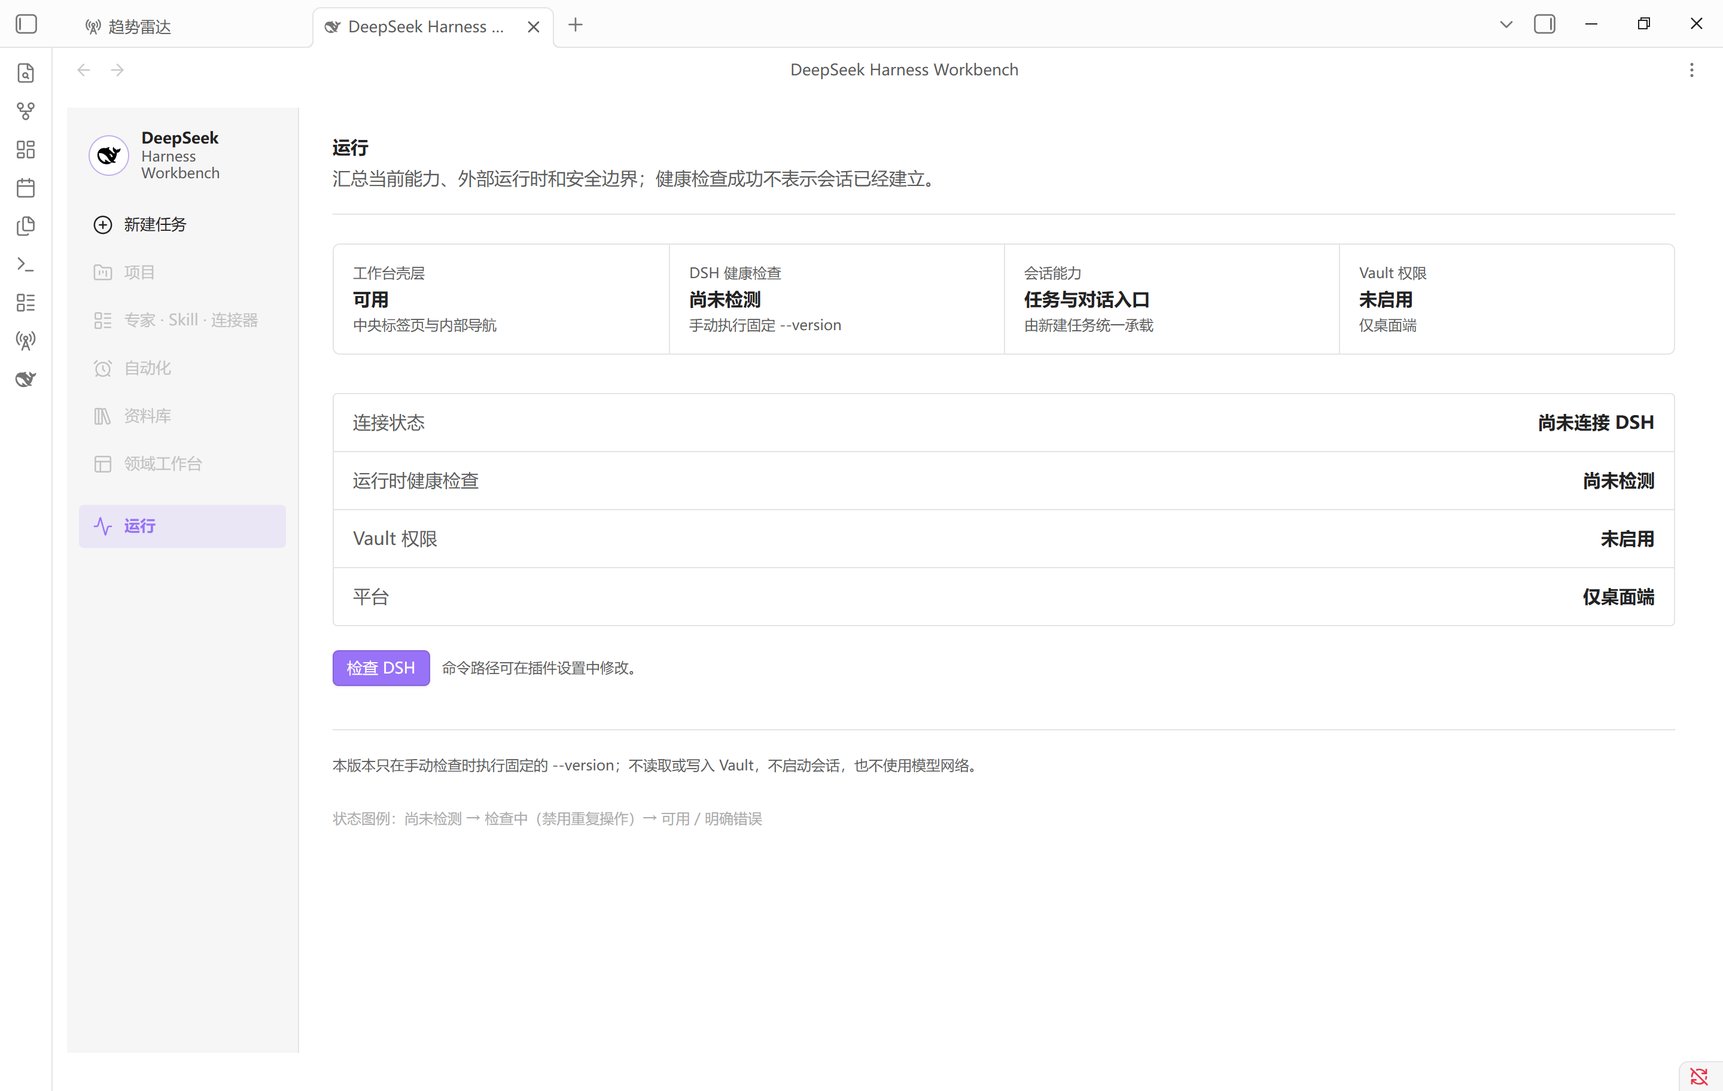
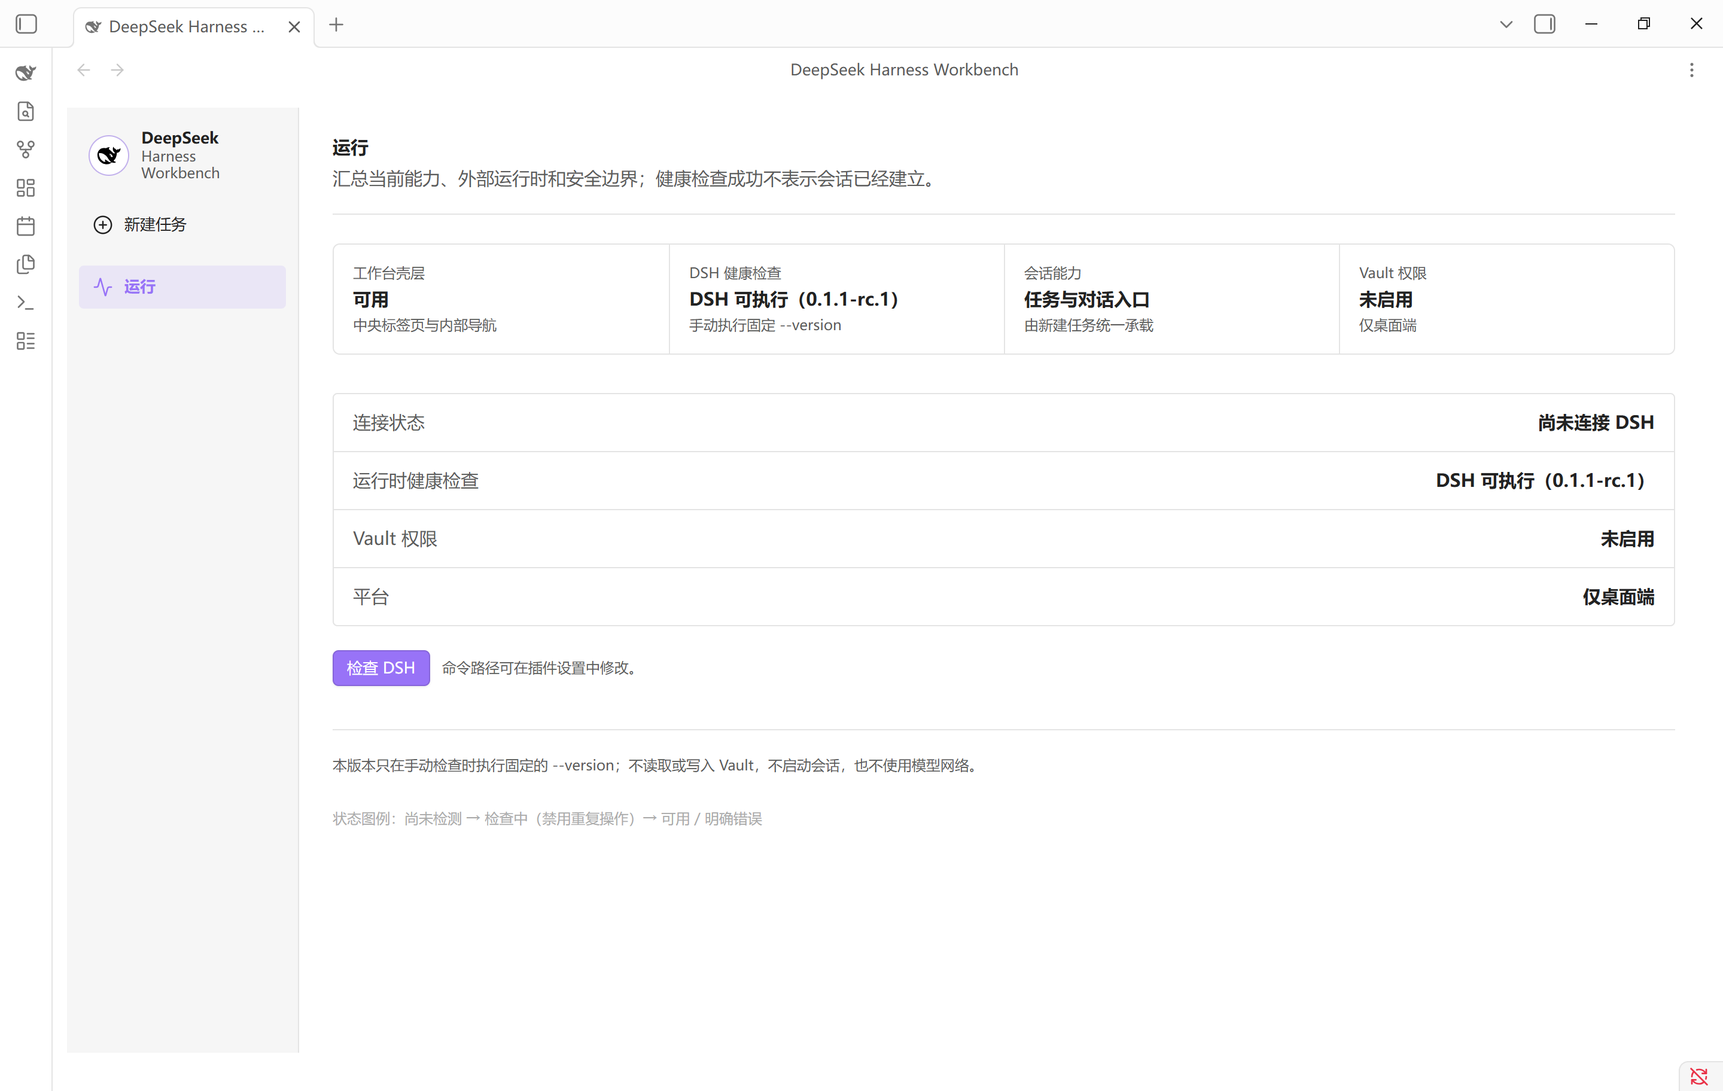
docs: 固定专用 Vault 新建任务验收证据

diff --git a/tests/contracts.test.ts b/tests/contracts.test.ts
@@ -1,3 +1,4 @@
+import { createHash } from 'node:crypto';
 import { readFile } from 'node:fs/promises';
 import path from 'node:path';
 
@@ -37,11 +38,11 @@ describe('发布与治理契约', () => {
     const readme = await readFile(path.join(repositoryRoot, 'README.md'), 'utf8');
 
     expect(readme).toContain('Unofficial community integration for DeepSeek Harness.');
-    expect(readme).toContain('| 新建任务 | Ardot `v2` 宿主 UI 与确定性状态骨架已实现并通过单元测试；真实发送、对话、上下文和任务执行尚未接通 |');
-    expect(readme).toContain('| 中央 Workbench 与当前内部导航 | 按 `2026-08-26` 用户直接反馈仅渲染“新建任务”和“运行”，未开放模块不进入插件导航；专用隔离 Vault 正在重新验收 |');
-    expect(readme).toContain('| 可选右侧快速助手容器 | Ardot `v2` 宿主 UI 已实现；显示健康、上下文空态和两个真实禁用的快捷提问，不承担主对话 |');
-    expect(readme).toContain('| ribbon 与中央标签页命令入口 | 已实现并通过本地测试与双平台 CI；原隔离 Vault 运行证据已撤回，专用 Vault 待重新验收 |');
-    expect(readme).toContain('| DSH 路径配置与健康检查 | 已实现；只读检查已通过本地测试与双平台 CI，专用隔离 Vault 待重新验收 |');
+    expect(readme).toContain('| 新建任务 | Ardot `v2` 宿主 UI 与确定性状态骨架已实现，并通过专用隔离 Vault 验收；真实发送、对话、上下文和任务执行尚未接通 |');
+    expect(readme).toContain('| 中央 Workbench 与当前内部导航 | 按 `2026-08-26` 用户直接反馈仅渲染“新建任务”和“运行”，未开放模块不进入插件导航；专用隔离 Vault 验收已通过 |');
+    expect(readme).toContain('| 可选右侧快速助手容器 | Ardot `v2` 宿主 UI 已实现；专用隔离 Vault 已验证唯一右侧视图、健康、上下文空态和两个真实禁用的快捷提问，不承担主对话 |');
+    expect(readme).toContain('| ribbon 与中央标签页命令入口 | 已实现并通过本地测试、双平台 CI 与专用隔离 Vault 的加载、复用和禁用验收 |');
+    expect(readme).toContain('| DSH 路径配置与健康检查 | 已实现；只读检查已通过本地测试、双平台 CI 与专用隔离 Vault 的真实 `--version` 验收 |');
     expect(readme).toContain('只有用户手动点击“检查 DSH”时才启动外部子进程');
     expect(readme).toContain('当前健康检查精确支持 DSH `0.1.1-rc.1`');
     expect(readme).toContain('| DSH 会话、流式事件与取消 | bridge 内部路径已实现并通过本地真实运行验收；Obsidian 宿主入口已实现，但模型调用链、上下文与任务执行尚未接通 |');
@@ -125,7 +126,7 @@ describe('发布与治理契约', () => {
     expect(designQa).toContain('Ardot 组件为 `12:555`');
     expect(designQa).toContain('各产品画板均不显示“首发”“规划中”“尚未实现”等开发或发布文案');
     expect(designQa).toContain('Ardot v2 design-only final result: passed');
-    expect(designQa.trimEnd()).toMatch(/Batch 5A dedicated Vault remediation result: pending; final Obsidian UI user acceptance: pending$/u);
+    expect(designQa.trimEnd()).toMatch(/Batch 5A dedicated Vault remediation result: passed; final Obsidian UI user acceptance: pending$/u);
 
     for (const asset of [
       'design-system.png',
@@ -143,7 +144,7 @@ describe('发布与治理契约', () => {
     }
   });
 
-  it('Batch 5A 固定插件反馈 UI、禁用边界与专用 Vault 重验收门', async () => {
+  it('Batch 5A 固定插件反馈 UI、禁用边界与专用 Vault 证据', async () => {
     const [main, workbench, quickAssistant, newTaskState, styles, designQa] = await Promise.all([
       readFile(path.join(repositoryRoot, 'src', 'main.ts'), 'utf8'),
       readFile(path.join(repositoryRoot, 'src', 'workbench-view.ts'), 'utf8'),
@@ -180,7 +181,45 @@ describe('发布与治理契约', () => {
     expect(designQa).toContain('c8f6922b1a44e5bc0fdb325fce183e95b85320d1');
     expect(designQa).toContain('CI run 32919119819');
     expect(designQa).toContain('Ubuntu check `98028935782`、Windows check `98028935888`');
+    expect(designQa).toContain('a41c93b43245c9b1cfb84c4adb243ef4217c8253');
+    expect(designQa).toContain('CI run 32963736114');
+    expect(designQa).toContain('Ubuntu check `98161570546` 与 Windows check `98161570396`');
+    expect(designQa).toContain('`clientWidth = 700`、`scrollWidth = 700`');
+    expect(designQa).toContain('Workbench、快速助手及对应 leaf 均为 `0`');
 
+    for (const asset of [
+      {
+        bytes: 165_779,
+        name: 'new-task-wide-light.png',
[1 lines of base64/hex data omitted]
+      },
+      {
+        bytes: 243_563,
+        name: 'new-task-with-quick-assistant.png',
[1 lines of base64/hex data omitted]
+      },
+      {
+        bytes: 206_174,
+        name: 'run-wide-light.png',
[1 lines of base64/hex data omitted]
+      },
+      {
+        bytes: 166_010,
+        name: 'new-task-wide-dark.png',
[1 lines of base64/hex data omitted]
+      },
+      {
+        bytes: 145_406,
+        name: 'new-task-narrow-700.png',
[1 lines of base64/hex data omitted]
+      },
+    ]) {
+      const bytes = await readFile(
+        path.join(repositoryRoot, 'docs', 'assets', 'design-qa', 'new-task-host-ui', asset.name),
+      );
+      expect(bytes.byteLength).toBe(asset.bytes);
+      expect(createHash('sha256').update(bytes).digest('hex').toUpperCase()).toBe(asset.sha256);
+    }
   });
 
   it('P0 评估只接受一个生产运行时 ADR', async () => {

diff --git a/design-qa.md b/design-qa.md
@@ -1,8 +1,8 @@
 # Workbench 壳层与 Ardot UI 真相设计验收
 
-状态：Ardot 设计证据有效；误用测试 Vault 的 Obsidian 运行证据已撤回，专用 Vault 重验收进行中
+状态：Ardot 设计证据有效；误用测试 Vault 的 Obsidian 运行证据已撤回；专用 Vault 修正验收已通过，最终 Obsidian UI 用户验收待完整功能后执行
 
-> `2026-08-26` 纠正：本文早期 Workbench 壳层运行截图使用了属于另一个插件的 `obsidian-trend-radar-evidence` Vault，不能作为本插件隔离验收证据。相关截图只保留为历史工件，不再支撑“已通过”结论；Ardot 设计审阅证据不受影响。当前有效运行结论只以后文专用 `obsidian-dsh-workbench-evidence` Vault 修正批次为准。
+> `2026-08-26` 纠正：本文早期 Workbench 壳层运行截图使用了属于另一个插件的 `obsidian-trend-radar-evidence` Vault，不能作为本插件隔离验收证据；`docs/assets/design-qa/workbench-shell/` 只保留为历史工件，不再支撑“已通过”结论。Ardot 设计审阅证据不受影响；`docs/assets/design-qa/new-task-host-ui/` 五张截图已全部由专用 `obsidian-dsh-workbench-evidence` Vault 覆盖，当前有效运行结论只以后文修正批次为准。
 
 ## 视觉来源
 
@@ -173,13 +173,36 @@ Ardot v2 design-only final result: passed
 ### 已撤回的运行证据
 
 - 原 Batch 5A 运行截图和 DOM 读回使用了 `D:\codex workspace\_test-vaults\obsidian-trend-radar-evidence`。该 Vault 属于另一个插件，不能作为本插件隔离验收环境。
-- 原截图、唯一视图、禁用语义、reload 复位、`700px`、Light/Dark、错误缓冲和进程残留读回全部从本插件验收结论中撤回；仓库中的五张截图必须由专用 Vault 证据覆盖后才恢复有效。
+- 原截图、唯一视图、禁用语义、reload 复位、`700px`、Light/Dark、错误缓冲和进程残留读回全部从本插件验收结论中撤回；它们不参与下列修正结论。
 - 原实现提交 `c8f6922b1a44e5bc0fdb325fce183e95b85320d1` 与 [CI run 32919119819](https://github.com/LuoJiangYong/obsidian-dsh-workbench/actions/runs/32919119819) 的代码门仍有效：Ubuntu check `98028935782`、Windows check `98028935888` 均成功，两个原始 annotations 数组均为 `[]`。CI 成功不替代运行验收。
 
-### 修正验收门
+### 专用 Vault 有效运行证据
 
 - 专用 Vault 固定为 `D:\codex workspace\_test-vaults\obsidian-dsh-workbench-evidence`，每个 Obsidian CLI 命令必须显式指定该 Vault。
-- 重新验收只显示“新建任务 / 运行”的宽屏导航与窄屏选择器、左右半圆模式控件、代码协作及 composer 动作禁用、快速助手、Light/Dark、`700px` 无溢出、reload 复位、零笔记写入、零错误和零残留受管进程。
-- 五张 `docs/assets/design-qa/new-task-host-ui/` 截图必须全部由专用 Vault 重新捕获并逐张视觉复核；在此之前不能声称 Batch 5A 隔离 Vault 运行验收通过。
+- 宿主版本为 Obsidian `1.13.7`（installer `1.12.7`）。插件反馈与证据纠正提交为 `a41c93b43245c9b1cfb84c4adb243ef4217c8253`；[CI run 32963736114](https://github.com/LuoJiangYong/obsidian-dsh-workbench/actions/runs/32963736114) 的 Ubuntu check `98161570546` 与 Windows check `98161570396` 均成功，两个原始 annotations 数组均为 `[]`。
[1 lines of base64/hex data omitted]
+- 连续两次打开命令后 Workbench DOM 与 leaf 均为 `1`；宽屏导航精确为“新建任务 / 运行”，禁用导航数为 `0`，五个未实现模块在 Workbench 文本与紧凑选择器中均不存在。
+- 模式外框计算样式为 `border-radius: 999px`；首个按钮四角依次为 `999px / 0px / 0px / 999px`，最后按钮为 `0px / 999px / 999px / 0px`。对话与任务执行可切换，“代码协作”保持禁用；附件、上下文、权限和发送全部禁用。
+- 任务执行模式与内存草稿可在当前视图更新，发送仍禁用；plugin reload 后恢复“对话”、空草稿和禁用发送，Workbench 与 leaf 仍各为 `1`。
+- “运行”页真实执行固定 `dsh --version` 后显示 `DSH 可执行（0.1.1-rc.1）`，连接状态仍为“尚未连接 DSH”；受管 `obsidian-bridge.mjs` 进程为 `0`。
+- 快速助手连续打开后 DOM 与 leaf 均为 `1`，显示 `DSH 可执行（0.1.1-rc.1）`、`未选择笔记或工作范围`，两个快捷提问均为原生禁用。
+- `700px` 容器前置断言为 `clientWidth = 700`、`scrollWidth = 700`、固定侧栏 `display: none`、紧凑选择器 `display: flex`，选项仅“新建任务 / 运行”且均可用；composer footer 保持横向。测试 inline 宽度随后移除，宽屏恢复 `clientWidth = scrollWidth = 1396`。
+- 深色主题中品牌圆形承载底为 `rgb(255, 255, 255)`、图标颜色为 `rgb(0, 0, 0)`；验收结束前已恢复浅色。
 
-Batch 5A dedicated Vault remediation result: pending; final Obsidian UI user acceptance: pending
+### 专用 Vault 截图与视觉复核
+
[5 lines of base64/hex data omitted]
+- 每张截图均在目标 DOM 读回后先执行稳定化截图，再执行正式截图；两张因空宿主右侧栏或侧栏动画尚未完成而产生的中间截图均被拒绝并覆盖。五张最终图已逐张视觉复核，未发现文字裁切、横向溢出、错误主题 token 或剩余 P0 / P1 / P2 视觉问题。
+
+### 清理与边界
+
+- Vault 文件列表始终只有 `DeepSeek Harness Workbench 验收说明.md`；读回内容仍为隔离验收说明，没有写入任务、上下文或模型输出。
+- 验收结束后已禁用插件；Workbench、快速助手及对应 leaf 均为 `0`，Obsidian 错误缓冲与 error 级控制台消息均为 `0`，受管 bridge 进程为 `0`。
+- `main.js`、`manifest.json`、`obsidian-bridge.mjs`、`styles.css` 已通过 Obsidian adapter 逐项删除并读回不存在；五个稳定化临时截图已删除。
+- Ardot 未修改，只读核对；本批只更新插件实现差异、仓库契约、测试、CI 与专用 Vault 证据。
+
+Batch 5A dedicated Vault remediation result: passed; final Obsidian UI user acceptance: pending

diff --git a/README.md b/README.md
@@ -11,12 +11,12 @@
 | 能力 | 状态 |
 | --- | --- |
 | Ardot UI 用户审阅真相 | `v2` 保持用户审阅基线；Ardot 默认由 AI 只读，只有用户明确要求时才允许修改 |
-| 新建任务 | Ardot `v2` 宿主 UI 与确定性状态骨架已实现并通过单元测试；真实发送、对话、上下文和任务执行尚未接通 |
+| 新建任务 | Ardot `v2` 宿主 UI 与确定性状态骨架已实现，并通过专用隔离 Vault 验收；真实发送、对话、上下文和任务执行尚未接通 |
 | 新建任务 v1 需求与宿主契约 | 已批准并纳入 CI；正式 bridge 与宿主 UI 子集已实现，只读上下文与任务执行仍在实施 |
-| 中央 Workbench 与当前内部导航 | 按 `2026-08-26` 用户直接反馈仅渲染“新建任务”和“运行”，未开放模块不进入插件导航；专用隔离 Vault 正在重新验收 |
-| ribbon 与中央标签页命令入口 | 已实现并通过本地测试与双平台 CI；原隔离 Vault 运行证据已撤回，专用 Vault 待重新验收 |
-| 可选右侧快速助手容器 | Ardot `v2` 宿主 UI 已实现；显示健康、上下文空态和两个真实禁用的快捷提问，不承担主对话 |
-| DSH 路径配置与健康检查 | 已实现；只读检查已通过本地测试与双平台 CI，专用隔离 Vault 待重新验收 |
+| 中央 Workbench 与当前内部导航 | 按 `2026-08-26` 用户直接反馈仅渲染“新建任务”和“运行”，未开放模块不进入插件导航；专用隔离 Vault 验收已通过 |
+| ribbon 与中央标签页命令入口 | 已实现并通过本地测试、双平台 CI 与专用隔离 Vault 的加载、复用和禁用验收 |
+| 可选右侧快速助手容器 | Ardot `v2` 宿主 UI 已实现；专用隔离 Vault 已验证唯一右侧视图、健康、上下文空态和两个真实禁用的快捷提问，不承担主对话 |
+| DSH 路径配置与健康检查 | 已实现；只读检查已通过本地测试、双平台 CI 与专用隔离 Vault 的真实 `--version` 验收 |
 | 正式 bridge、协议 v1 与 NDJSON | 已实现；本地与 Windows CI 已由 DSH `0.1.1-rc.2` 真实加载并完成握手、Agent session、mid-turn cancel 与正常关闭；尚未接入产品 UI |
 | DSH 会话、流式事件与取消 | bridge 内部路径已实现并通过本地真实运行验收；Obsidian 宿主入口已实现，但模型调用链、上下文与任务执行尚未接通 |
 | Vault 读取与写入 | 未启用 |
@@ -94,7 +94,7 @@ npm run test:bridge:runtime
 
 ## Batch 0A 验收
 
-> `2026-08-26` 证据纠正：下列历史批次中凡使用 `obsidian-trend-radar-evidence` 的 Obsidian 运行读回与截图均已撤回，不能继续支撑本插件的隔离 Vault 通过结论；源码、本地测试和已核实的远端 CI 证据不受影响。当前运行结论只以专用 `obsidian-dsh-workbench-evidence` Vault 的重新验收为准。
+> `2026-08-26` 证据纠正：下列历史批次中凡使用 `obsidian-trend-radar-evidence` 的 Obsidian 运行读回与截图均已撤回，不能继续支撑本插件的隔离 Vault 通过结论；源码、本地测试和已核实的远端 CI 证据不受影响。当前运行结论只以后文专用 `obsidian-dsh-workbench-evidence` Vault 的修正验收为准。
 
 - Windows 上从锁文件执行 `npm ci` 成功，依赖审计为 0 个已知漏洞。
 - 类型检查、ESLint 零警告、6 项测试、生产构建和仓库自检通过。
@@ -117,7 +117,7 @@ npm run test:bridge:runtime
 
 ## Workbench 壳层批次验收
 
-以下条目记录当时实现行为，但其中基于错误 Vault 的宿主运行读回已按上方纠正声明撤回，专用 Vault 重验收完成前不得据此声称当前运行通过。
+以下条目记录当时实现行为，但其中基于错误 Vault 的宿主运行读回已按上方纠正声明撤回，不再支撑当前结论；有效宿主证据只以后文 Batch 5A 专用 Vault 修正验收为准。
 
 - ribbon 和命令打开或复用中央 Workbench 标签页；连续打开后主工作区内只有一个 Workbench。
 - 插件自有 `194px` 左导航开放概览与运行状态，六个未来模块保持原生禁用并显示“规划中”。
@@ -141,9 +141,11 @@ npm run test:bridge:runtime
 - 空草稿、未连接运行时、未完成审阅或非空闲阶段任一成立时，发送都不可执行；当前上下文、权限与发送统一保持禁用。
 - 原“概览”和“运行状态”已合并为“运行”；按 `2026-08-26` 用户直接反馈，未实现的五个模块不在插件导航中渲染，模式分段控件使用左右半圆胶囊边界。
 - DeepSeek 鲸鱼 path 已用于 ribbon、活动标签页、Workbench 品牌和快速助手；当前 rc.2 夹具中的上游 SVG 与 Ardot 锁定的 rc.1 资产 SHA-256 相同。
-- 原 Batch 5A 代码与双平台 CI 证据仍有效；原运行截图误用了属于另一个插件的 `obsidian-trend-radar-evidence` Vault，现已撤回，不再作为本插件隔离 Vault 证据。专用 `obsidian-dsh-workbench-evidence` Vault 的重新验收与截图替换正在进行。
+- 原 Batch 5A 运行截图误用了属于另一个插件的 `obsidian-trend-radar-evidence` Vault，现已撤回，不再作为本插件隔离 Vault 证据；五张宿主截图已全部由专用 `obsidian-dsh-workbench-evidence` Vault 重新捕获并逐张复核。
 - 实现提交 `c8f6922b1a44e5bc0fdb325fce183e95b85320d1` 已通过远端 [CI run 32919119819](https://github.com/LuoJiangYong/obsidian-dsh-workbench/actions/runs/32919119819) 的 Ubuntu 与 Windows job；check `98028935782`、`98028935888` 的原始 annotations 均为 `[]`。
-- 当前只证明宿主 UI 与状态骨架的代码门通过；专用 Vault 运行证据尚待重建，不证明模型对话、上下文、权限或任务执行已可用，也不是最终用户 UI 验收。
+- 插件反馈与证据纠正提交 `a41c93b43245c9b1cfb84c4adb243ef4217c8253` 已通过远端 [CI run 32963736114](https://github.com/LuoJiangYong/obsidian-dsh-workbench/actions/runs/32963736114)；Ubuntu check `98161570546`、Windows check `98161570396` 均成功，两个原始 annotations 数组均为 `[]`。
+- 专用 Vault 已验证唯一 Workbench/快速助手、精简导航、左右半圆模式控件、reload 复位、真实健康检查、Light/Dark、`700px` 无溢出、零笔记写入、零错误和零残留受管进程；验收后插件已禁用，四个可重建资产已移除。
+- 当前证明宿主 UI 与状态骨架的代码门和专用 Vault 运行门通过；不证明模型对话、上下文、权限或任务执行已可用，也不是最终 Obsidian UI 用户验收。
 
 ## 开发治理
 

diff --git a/docs/architecture/ADR-003-ardot-ui-authority.md b/docs/architecture/ADR-003-ardot-ui-authority.md
@@ -30,7 +30,7 @@
 ## 后果与边界
 
 - 当前源码已同步鲸鱼图标、三行品牌、“新建任务”和“运行”，并按 `2026-08-26` 用户直接反馈不渲染五个未实现模块、采用左右半圆模式控件；Ardot v2 未修改，这一插件差异必须持续记录。
-- “新建任务”当前只实现宿主页面和确定性状态骨架；上下文、权限、发送和模型连接保持禁用。原 Batch 5A 代码与 CI 证据有效，但运行截图误用了另一个插件的测试 Vault，已撤回并在专用 Vault 重新验收；最终用户 UI 验收仍须在完整功能实现后建立证据。
+- “新建任务”当前只实现宿主页面和确定性状态骨架；上下文、权限、发送和模型连接保持禁用。原 Batch 5A 错误 Vault 证据已撤回，插件反馈纠正代码、双平台 CI 与专用 Vault 修正验收均已通过；最终用户 UI 验收仍须在完整功能实现后建立证据。
 - CI 通过治理契约验证 Ardot 链接、批准基线和同步要求，不能对远端设计像素做不稳定的网络抓取。
 - 视觉验收使用同视口、同状态的参考/实现并排截图；Ardot 设计质量通过不等于 Obsidian 运行验收通过。
 - Ardot 变更不自动批准未来模块、聊天、Vault、运行时或发布能力，也不能替代“新建任务”的最终用户 UI 验收。

diff --git a/docs/architecture/ADR-004-new-task-first-release-gate.md b/docs/architecture/ADR-004-new-task-first-release-gate.md
@@ -34,7 +34,7 @@
 ## 后果与边界
 
 - Ardot `UI 真相 v2` 和 `DESIGN.md` 已体现本决策。
-- 当前源码与单元测试已同步只含“新建任务 / 运行”的导航、左右半圆模式控件、新建任务宿主页面、确定性状态骨架和快速助手；原 Batch 5A 运行证据因误用另一个插件的测试 Vault 已撤回，专用 Vault 重新验收仍在进行。
+- 当前源码与单元测试已同步只含“新建任务 / 运行”的导航、左右半圆模式控件、新建任务宿主页面、确定性状态骨架和快速助手；原 Batch 5A 错误 Vault 证据已撤回，专用 Vault 修正验收已通过。
 - DSH 输入、事件、状态、取消、错误、权限和日志脱敏契约已由 ADR-005、bridge 协议 v1 与 Batch 3–4 实现固定；后续批次继续接通真实产品行为。
 - 未经新批准不得读取或写入 Vault，不得建立任意 Shell，不得安装或更新 DSH，不得创建 Release 或提交 Obsidian 社区目录。
 - “运行”当前是审阅名称；只有用户明确批准修改 Ardot 时，后续改名才同步 Ardot。若只授权插件改名，则更新 `DESIGN.md`、ADR、实现、测试、CI 契约和 `design-qa.md` 并登记 Ardot 差异。
